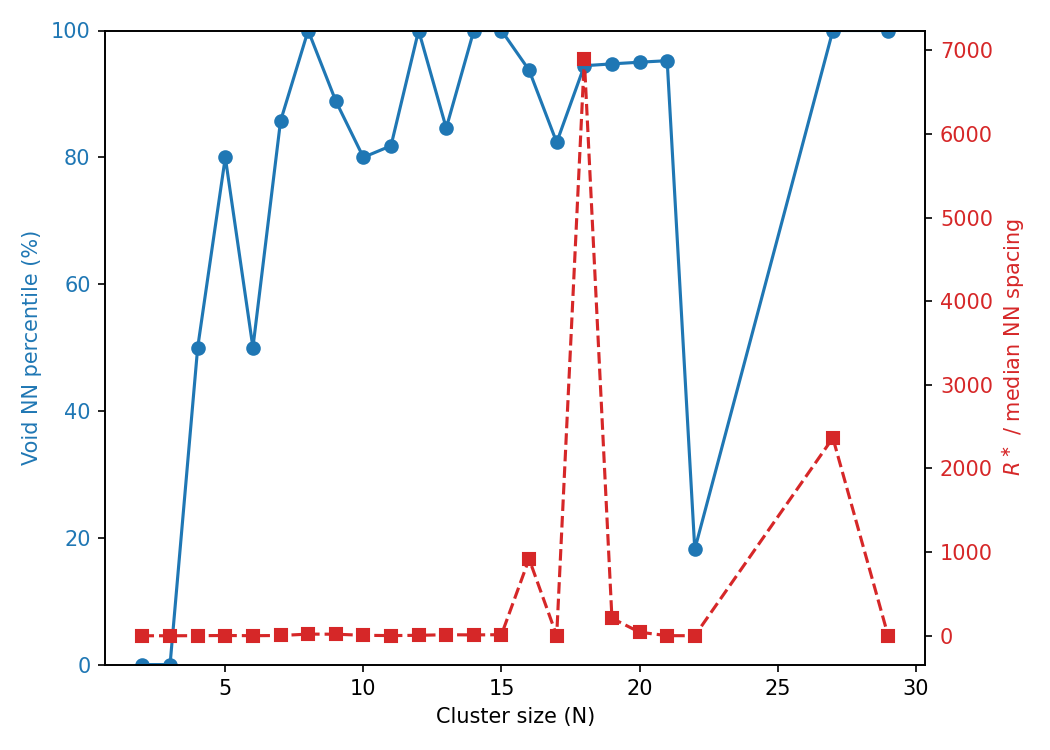
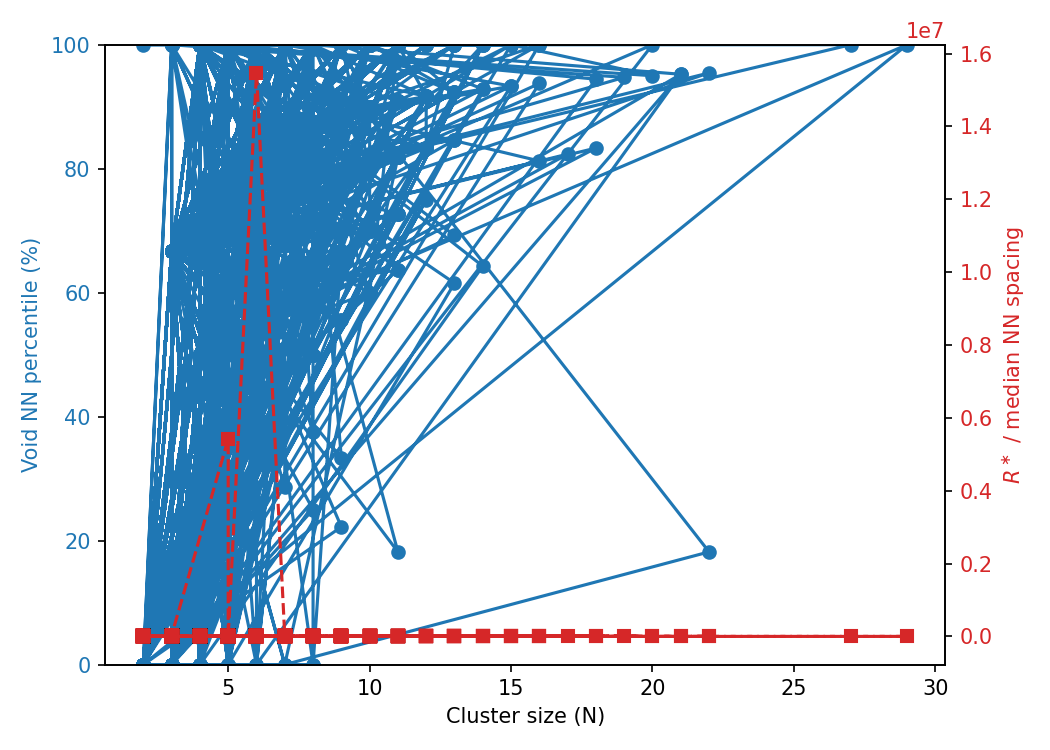
did all clusters lol it sucks

diff --git a/unique_orbits/uct_fitting/main.py b/unique_orbits/uct_fitting/main.py
@@ -273,7 +273,7 @@ class UCTFitting:
         # df = self.load_tle_dataframe_for_file()
         
         df = self.load_hdbscan_labeled_dataframe()
-        cluster_sizes, percentiles, ratios = self.evaluate_void_over_cluster_sizes(df.copy())
+        cluster_sizes, percentiles, ratios, labels = self.evaluate_void_all_clusters(df.copy())
 
         self.plot_void_performance(cluster_sizes, percentiles, ratios)
         
@@ -370,6 +370,37 @@ class UCTFitting:
         print(f"Saved void performance plot to {out_path}")
         
         
+    def evaluate_void_all_clusters(self, df, min_cluster_size=2):
+        cluster_sizes = []
+        percentiles = []
+        ratios = []
+        labels = []
+
+        for label, df_cluster in df.groupby("label"):
+            if label == -1:
+                continue
+            N = len(df_cluster)
+            if N < min_cluster_size:
+                continue
+
+            _, diagnostics = get_maximally_separated_orbit(
+                df_cluster.copy(),
+                return_diagnostics=True
+            )
+
+            ratio = diagnostics["ratio_to_median_spacing"]
+            if not np.isfinite(ratio):
+                # skip degenerate clusters with median NN ~ 0
+                continue
+
+            cluster_sizes.append(N)
+            percentiles.append(diagnostics["percentile_vs_cluster"])
+            ratios.append(ratio)
+            labels.append(label)
+
+        return np.array(cluster_sizes), np.array(percentiles), np.array(ratios), np.array(labels)
+
+
     def select_one_cluster_per_size(self, df, min_cluster_size=2, random_state=10):
         """
         Returns a dict: {cluster_size: df_cluster}

diff --git a/unique_orbits/uct_fitting/orbit_finder/get_optimum_orbit.py b/unique_orbits/uct_fitting/orbit_finder/get_optimum_orbit.py
@@ -416,7 +416,7 @@ def cluster_spacing_stats(kepler_list):
         "max": float(np.max(nn_dists)),
     }
 
-def evaluate_void_orbit(void_kepler, kepler_list):
+def evaluate_void_orbit(void_kepler, kepler_list, eps=1e-12):
     """
     Quantify how 'void-like' a synthetic orbit is.
     """
@@ -426,7 +426,12 @@ def evaluate_void_orbit(void_kepler, kepler_list):
     stats = cluster_spacing_stats(kepler_list)
 
     percentile = np.mean(stats["nn_distances"] < r_star) * 100
-    ratio_to_median = r_star / stats["median"]
+
+    median = stats["median"]
+    if median < eps:
+        ratio_to_median = np.inf   # or np.nan, depending on what you prefer
+    else:
+        ratio_to_median = r_star / median
 
     return {
         "r_star": float(r_star),
@@ -434,3 +439,4 @@ def evaluate_void_orbit(void_kepler, kepler_list):
         "ratio_to_median_spacing": float(ratio_to_median),
         "cluster_stats": stats,
     }
+
